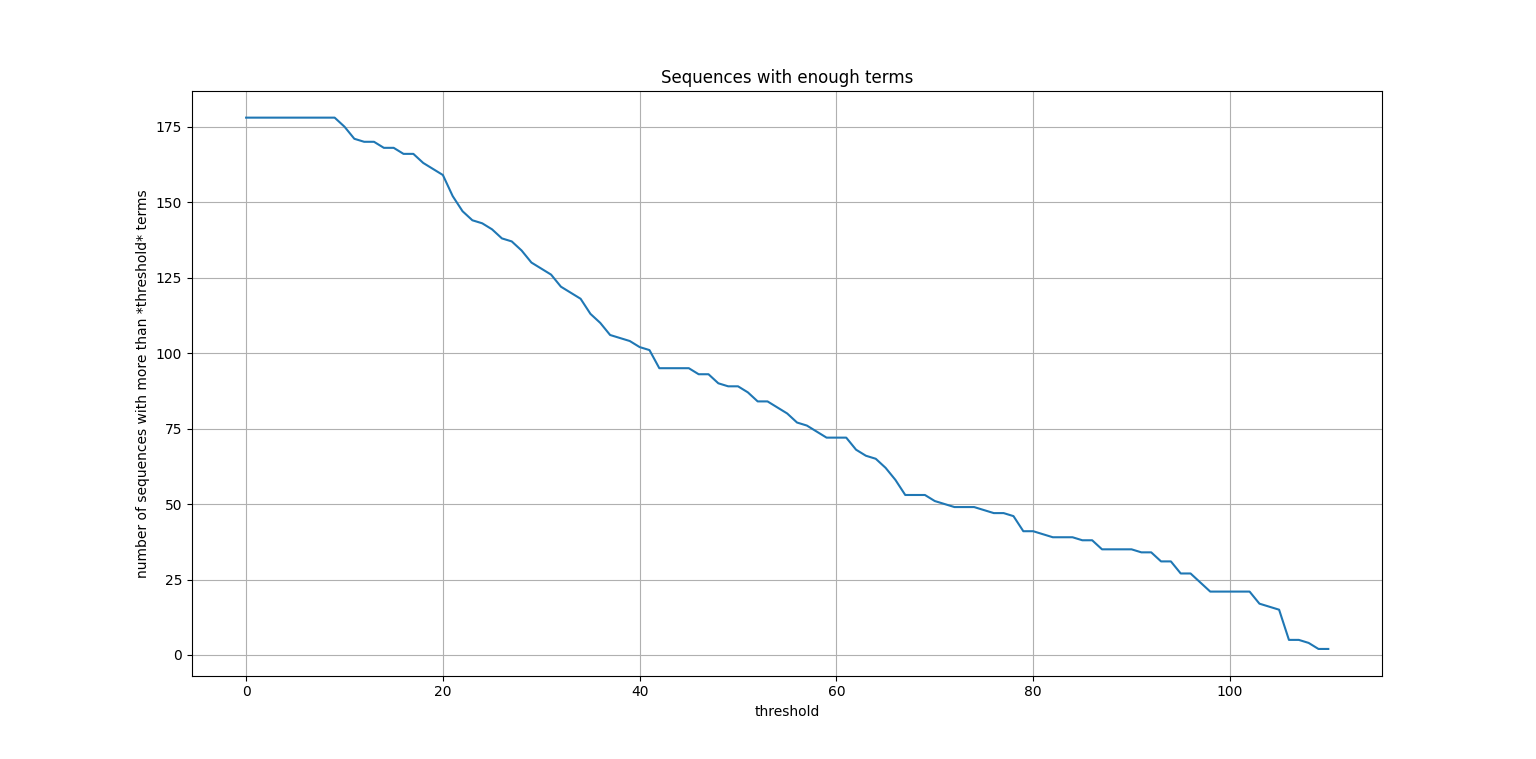
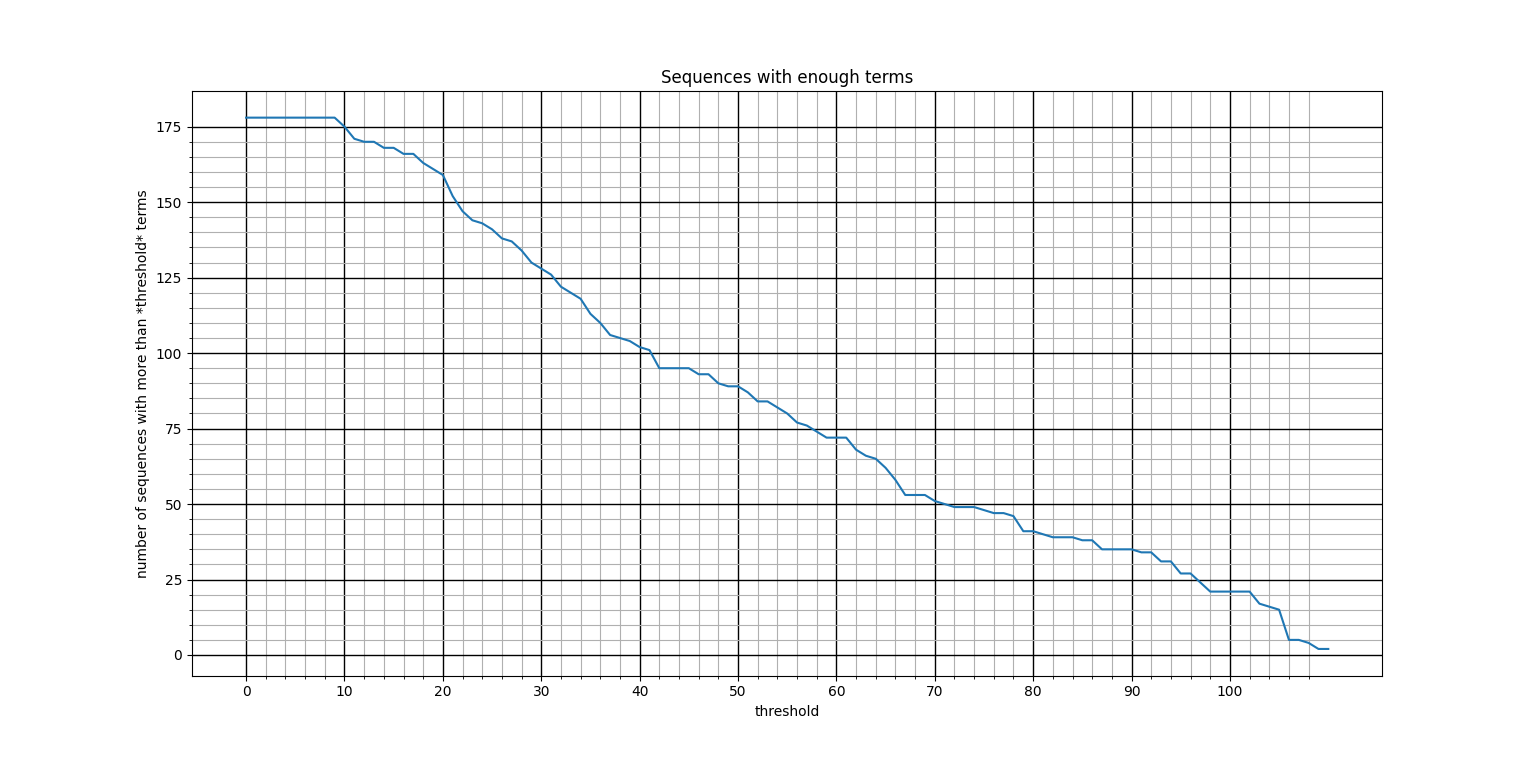
intersection of to large numbers with not enough therms

Changed region(s): [[0.125, 0.1212, 0.9062, 0.8788]]

diff --git a/ProGED/examples/oeis/urlquice.py b/ProGED/examples/oeis/urlquice.py
@@ -137,24 +137,54 @@ print(lens)
 # for i in range(10):
 #     print(sum(lens<10*i), 10*i)
 # print(len(lens))
-x = np.arange(max(lens))
-bigs = list(map(lambda i: sum(lens>=i), x))
+thresholds = np.arange(max(lens))
+amount_manys = list(map(lambda i: sum(lens>=i), thresholds))
 # print(bigs)
+
 ## -- check those with more than 100 terms -- ##
 seqs = seqs_flat
 def check_centum():
     # seqs = seqs_flat
     print("100lens")
-    cents = [(seq[0], len(seq[1]), seq[1]) for seq in seqs if len(seq[1])>100]
-    print(cents, "cents")
-# check_centum()
-## -- check those with more than 100 terms -- ##
+    # cents = [(seq[0], len(seq[1]), seq[1]) for seq in seqs if len(seq[1])>100]
+    ids_cents = [seq[0] for seq in seqs if len(seq[1])>=23]
+    # print(cents, "cents")
+    ids_cents.sort()
+    print(ids_cents)
+    print("number of sequences lots", len(ids_cents))
+    return ids_cents
+ids_lots = check_centum()
+
+## -- check those with terms bigger than 1e16 -- ##
 seqs = seqs_flat
 def pick_bignum():
     print("big numbers")
-    largs = [(seq[0], len(seq[1]), seq[1]) for seq in seqs if max(seq[1])>1e16]
-    print(largs, "largs")
-pick_bignum()
+    # largs = [(seq[0], len(seq[1]), seq[1]) for seq in seqs if max(seq[1])>1e16]
+    # ids_largs = [seq[0] for seq in seqs if max(seq[1])<=1e16.5]
+    ids_largs = [seq[0] for seq in seqs if max(seq[1])<=10**(15.6)]
+    ids_largs.sort()
+    # print(largs, "largs")
+    print(ids_largs)
+    print("number of sequences large w/ numbers", len(ids_largs))
+    return ids_largs
+ids_largs = pick_bignum()
+# assert check_centum() == pick_bignum(), "they do not perfectly match"
+inter = set(ids_largs).intersection(set(ids_lots))
+print("intersection:", inter, "len(intersection) : ", len(list(inter)))
+dif_lots = set(ids_lots).difference(inter)
+dif_largs = set(ids_largs).difference(inter)
+
+seqs_dict = dict(seqs)
+print("\n\n")
+for i in [(id, len(dict(seqs)[id]), float(max(dict(seqs)[id])), dict(seqs)[id]) for id in dif_lots]:
+    print(i)
+print("\n\n")
+for i in [(id, len(dict(seqs)[id]), float(max(dict(seqs)[id])), dict(seqs)[id]) for id in dif_largs]:
+    print(i)
+# print(seqs[:3], "seqs")
+# print(dict(seqs[:3]))
+
+
 # plot largs:
 maxs = np.array([max(seq[1]) for seq in seqs])
 # xs = np.array([10**i for i in range(int(np.log10(max(maxs))))])
@@ -166,13 +196,13 @@ max_exp = sum(xs < max(maxs))
 xs = xs[:max_exp]#[::-1]
 # xs = float(xs)
 # xs = xs[:15]
-print(max_exp, max(maxs))
+# # print(max_exp, max(maxs))
 # print(np.log10(max(maxs)))
 largs = list(map(lambda x: sum(maxs<=x), xs))
 # largs = list(map(lambda x: x, xs))
 # largs = list(map(lambda x: x**2, xs))
 # xs = (-1)*xs
-print(xs)
+# print(xs)
 def plot_largs(xs, largs):
     fig, ax = plt.subplots()
     # plt.grid(True)
@@ -224,7 +254,23 @@ def plot_largs(xs, largs):
     # plt.yticks([i for i in range(1, 178, 10)])
     plt.show()
     return
-plot_largs(xs, largs)
+# plot_largs(xs, largs)
+
+def plot_fews(xs, ys):
+    fig, ax = plt.subplots()
+    ax.plot(xs, ys)
+    ax.set_xticks(np.arange(0, xs[-1], 10))
+    ax.set_xticks(np.arange(0, xs[-1], 20/10), minor=True)
+    ax.set_yticks(np.arange(0, max(ys), 25))
+    ax.set_yticks(np.arange(0, max(ys), 5), minor=True)
+    ax.axes.grid(True, which="minor")
+    ax.axes.grid(True, which="major", color="k", linestyle="-", linewidth=1)
+    ax.set_xlabel("threshold")
+    ax.set_ylabel("number of sequences with more than *threshold* terms")
+    ax.set_title("Sequences with enough terms")
+    plt.show()
+    return
+# plot_fews(thresholds, amount_manys)
 
 def plot_alot(x, bigs):
     plt.grid(True)

diff --git a/ProGED/parameter_estimation.py b/ProGED/parameter_estimation.py
@@ -367,6 +367,28 @@ def find_parameters (model, X, Y, T, **estimation_settings):
                 f"\"{task_type}\", while list of possible values: "
                 f"\"{types_string}\".")
 
+    # metamodel_kwargs = {"random_seed": 28537}
+    # model_kwargs = {"dimension": 1,
+    #                 "function": lambda x: 0}
+    # surrogate_kwargs = {"rebuild_interval": 100,
+    #                     "predictor": ensemble.RandomForestRegressor()}
+    # threshold_kwargs = {"type": "alpha-beta",
+    #                     "desired_surr_rate": 0.5,
+    #                     "acceptable_offset": 0.05,
+    #                     "step": 0.0001,
+    #                     "alpha": 42,
+    #                     "beta": 10}
+    # relevator_kwargs = {"rebuild_interval": 100,
+    #                     "threshold_kwargs": threshold_kwargs,
+    #                     "fresh_info": None,
+    #                     "predictor": ensemble.RandomForestRegressor()}
+    # history_kwargs = {"size": 500,
+    #                 "use_size": 200}
+    # if surrogately:
+    #     res = estimation_settings["optimizer"](
+    #         metamodel.evaluate, X, Y, T, p0=model.params, **estimation_settings)
+    # else:
+
     res = estimation_settings["optimizer"](
         model, X, Y, T, p0=model.params, **estimation_settings)
     # res = DE_fit(model, X, Y, T, p0=model.params, **estimation_settings)
